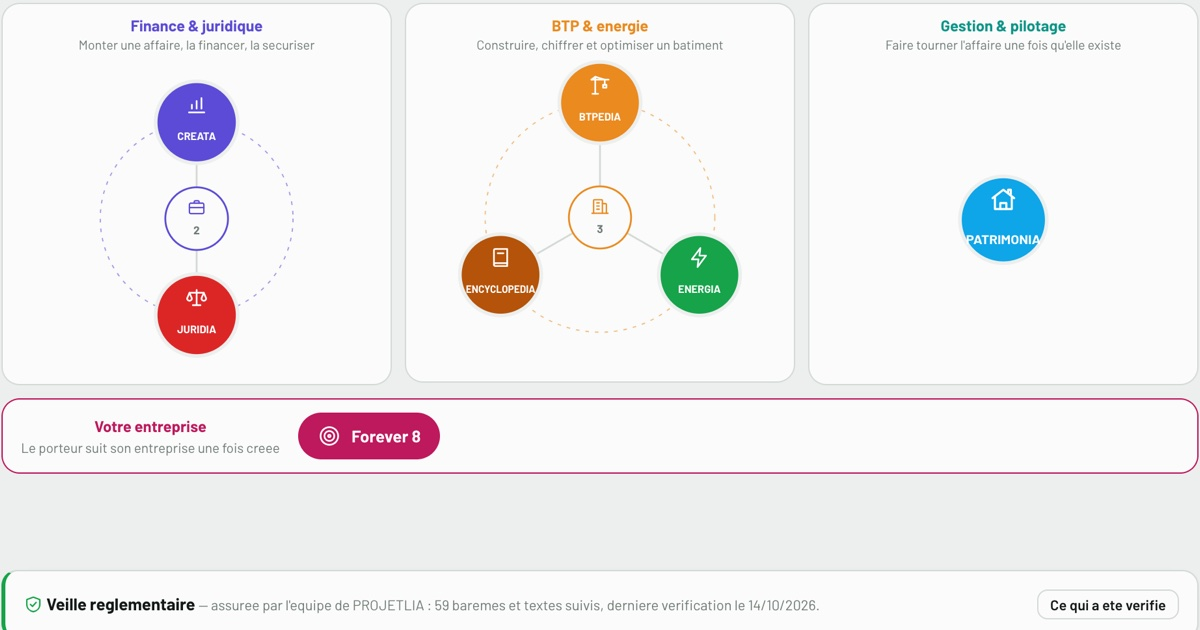
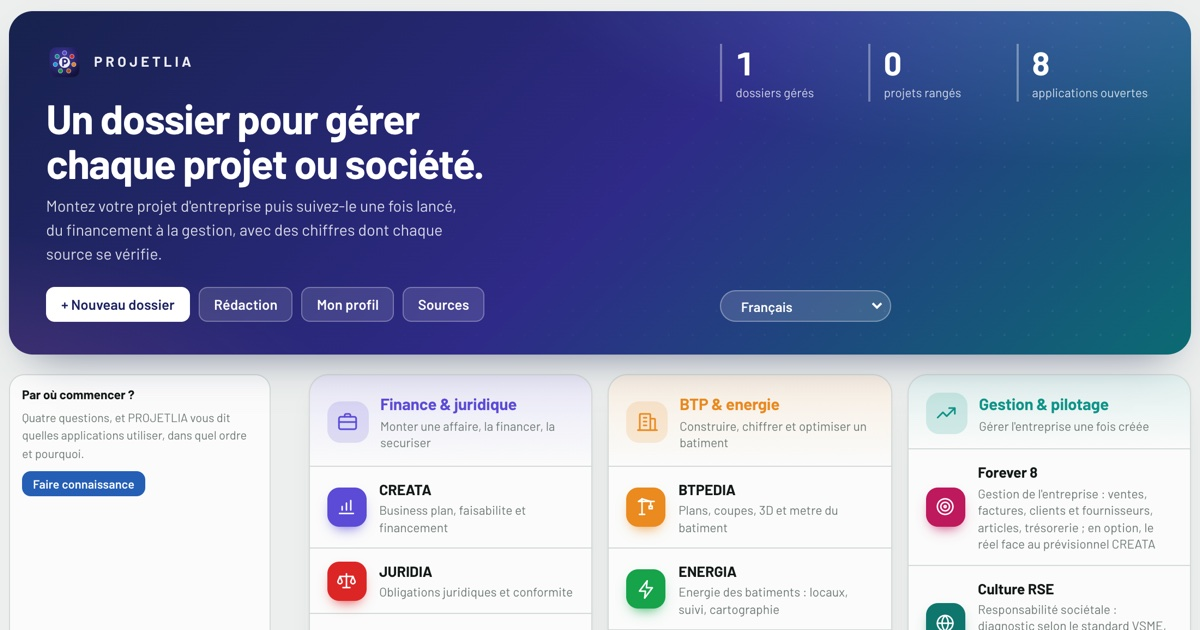
PROJETLIA aide les entreprises à monter leur projet puis à le suivre ; nouvelle image d'accueil et de partage
- un dossier pour gérer chaque projet ou société, plus de « dossier client » ni d'« accompagner » pour PROJETLIA
- Pro : gérer sans limite plusieurs projets ou sociétés
- img/atelier-accueil.jpg et img/partage.jpg refaites sur l'accueil actuel (installation vierge)

diff --git a/projetlia.html b/projetlia.html
@@ -4,12 +4,12 @@
 <meta charset="utf-8">
 <meta name="viewport" content="width=device-width, initial-scale=1, viewport-fit=cover">
 <title>PROJETLIA : business plan, droit, bâtiment, immobilier — BudappsAI</title>
-<meta name="description" content="PROJETLIA suit un projet d'entreprise du premier rendez-vous au pilotage. CREATA, JURIDIA, PATRIMONIA, BTPEDIA, l'Encyclopédie, ENERGIA, Forever 8, Culture RSE et Formation partagent un même dossier.">
+<meta name="description" content="PROJETLIA aide les entreprises à monter leur projet puis à le suivre. CREATA, JURIDIA, PATRIMONIA, BTPEDIA, l'Encyclopédie, ENERGIA, Forever 8, Culture RSE et Formation partagent un même dossier.">
 <meta name="theme-color" content="#09090b">
 <link rel="canonical" href="https://www.budappsai.com/projetlia.html">
 <link rel="icon" href="favicon.svg" type="image/svg+xml">
 <meta property="og:title" content="PROJETLIA : business plan, droit, bâtiment, immobilier — BudappsAI">
-<meta property="og:description" content="PROJETLIA suit un projet d'entreprise du premier rendez-vous au pilotage. CREATA, JURIDIA, PATRIMONIA, BTPEDIA, l'Encyclopédie, ENERGIA, Forever 8, Culture RSE et Formation partagent un même dossier.">
+<meta property="og:description" content="PROJETLIA aide les entreprises à monter leur projet puis à le suivre. CREATA, JURIDIA, PATRIMONIA, BTPEDIA, l'Encyclopédie, ENERGIA, Forever 8, Culture RSE et Formation partagent un même dossier.">
 <meta property="og:image" content="https://www.budappsai.com/img/partage.jpg">
 <link rel="stylesheet" href="budappsai.css">
 </head>
@@ -32,7 +32,7 @@
     <img class="icone-appli revele" src="img/projetlia-icone.svg" alt="Icône de PROJETLIA" width="96" height="96" style="display:block;margin:0 auto 10px">
     <div class="etiquette revele">PROJETLIA</div>
     <h1 data-mots>Un parcours, pas une <span class="degrade">suite d'outils</span></h1>
-    <p class="chapeau revele d3">PROJETLIA suit un projet d'entreprise du premier rendez-vous au pilotage. Un dossier correspond à un client : chaque application le complète et rien n'est saisi deux fois.</p>
+    <p class="chapeau revele d3">PROJETLIA aide les entreprises à monter leur projet puis à le suivre une fois lancé. Un dossier pour gérer chaque projet ou société : chaque application le complète et rien n'est saisi deux fois.</p>
   </div>
 
   <section id="video" aria-label="La vidéo de présentation de PROJETLIA">
@@ -156,11 +156,11 @@
         <div class="carte carte-app revele d2" data-incline style="--c:var(--formation)"><span class="pastille-app" style="background:var(--formation)"><svg viewBox="0 0 24 24" fill="none" stroke="currentColor" stroke-width="2"><path d="M3 6c3-2 6-2 9 1 3-3 6-3 9-1v13c-3-2-6-2-9 1-3-3-6-3-9-1zM12 7v13"/></svg></span><h3>Formation</h3><p>Douze fiches sourcées sur les thèmes de PROJETLIA, une question chacune et l'attestation de suivi. Formule Pro.</p><i class="ligne"></i></div>
       </div>
 
-      <div class="carte carte-app revele" id="redaction" style="margin-top:16px;min-height:0;--c:rgba(217,103,63,.6)"><span class="pastille-app" style="background:linear-gradient(135deg,var(--violet),var(--corail))"><svg viewBox="0 0 24 24" fill="none" stroke="currentColor" stroke-width="2"><path d="M7 3h7l4 4v14H7z"/><path d="M14 3v4h4M10 12h5M10 16h5"/></svg></span><h3>L'onglet Rédaction</h3><p>Compte rendu, lettre de mission, courrier, note de synthèse : chaque dossier client dispose de ses documents Word et Excel, préremplis à partir du dossier. Ils s'ouvrent dans Word ou dans ONLYOFFICE Desktop, logiciel gratuit à installer séparément. PROJETLIA intègre aussi un mémo et une feuille de calcul, avec des formules simples comme =SOMME(A1:A5). Tout reste sur votre ordinateur, dans la sauvegarde quotidienne et dans l'export du dossier.</p><p style="margin-top:12px;font-size:13.5px;color:var(--texte3)">ONLYOFFICE est une marque d'Ascensio System SIA. PROJETLIA n'est pas affilié à ONLYOFFICE.</p><i class="ligne"></i></div>
+      <div class="carte carte-app revele" id="redaction" style="margin-top:16px;min-height:0;--c:rgba(217,103,63,.6)"><span class="pastille-app" style="background:linear-gradient(135deg,var(--violet),var(--corail))"><svg viewBox="0 0 24 24" fill="none" stroke="currentColor" stroke-width="2"><path d="M7 3h7l4 4v14H7z"/><path d="M14 3v4h4M10 12h5M10 16h5"/></svg></span><h3>L'onglet Rédaction</h3><p>Compte rendu, lettre de mission, courrier, note de synthèse : chaque dossier dispose de ses documents Word et Excel, préremplis à partir du dossier. Ils s'ouvrent dans Word ou dans ONLYOFFICE Desktop, logiciel gratuit à installer séparément. PROJETLIA intègre aussi un mémo et une feuille de calcul, avec des formules simples comme =SOMME(A1:A5). Tout reste sur votre ordinateur, dans la sauvegarde quotidienne et dans l'export du dossier.</p><p style="margin-top:12px;font-size:13.5px;color:var(--texte3)">ONLYOFFICE est une marque d'Ascensio System SIA. PROJETLIA n'est pas affilié à ONLYOFFICE.</p><i class="ligne"></i></div>
 
       <div class="parcours" id="parcours">
         <div class="trait" id="trait"></div>
-        <div class="etape"><div class="num">1</div><div><div class="app">La personne</div><h3>Le diagnostic d'entrée</h3><p>Parcours, compétences, freins et ressources : l'accompagnement commence par la personne.</p></div></div>
+        <div class="etape"><div class="num">1</div><div><div class="app">La personne</div><h3>Le diagnostic d'entrée</h3><p>Parcours, compétences, freins et ressources : tout commence par la personne qui dirige l'entreprise.</p></div></div>
         <div class="etape"><div class="num">2</div><div><div class="app">CREATA</div><h3>Faisabilité et financement</h3><p>Chaque chiffre montre sa source et sa suite, jusqu'au score.</p></div></div>
         <div class="etape"><div class="num">3</div><div><div class="app">JURIDIA</div><h3>Ce qui s'impose</h3><p>Les obligations, dans l'ordre où les traiter.</p></div></div>
         <div class="etape"><div class="num">4</div><div><div class="app">BTPEDIA · ENERGIA</div><h3>Les locaux</h3><p>Le bâti puis l'énergie, lorsque le projet comporte des locaux. En bonus, PATRIMONIA chiffre l'achat d'un local ou un investissement locatif.</p></div></div>
@@ -172,7 +172,7 @@
         <div><b data-compte="9">0</b><span>applications reliées par un même dossier</span></div>
         <div><b data-compte="7">0</b><span>langues du français au chinois</span></div>
         <div><b data-compte="72" data-suffixe=" h">0</b><span>de fonctionnement sans connexion</span></div>
-        <div><b data-compte="0">0</b><span>dossier client hébergé chez nous</span></div>
+        <div><b data-compte="0">0</b><span>dossier hébergé chez nous</span></div>
       </div>
     </div>
   </section>
@@ -206,7 +206,7 @@
             <span class="statut dispo">Disponible</span>
             <span class="pastille-app" style="background:linear-gradient(135deg,var(--violet),var(--corail));--c:rgba(217,103,63,.6)"><svg viewBox="0 0 24 24" fill="none" stroke="currentColor" stroke-width="2"><path d="M4 20h16M6 20V10l6-5 6 5v10M10 20v-5h4v5"/></svg></span>
             <h3>PROJETLIA</h3>
-            <p>Accompagner un entrepreneur, du diagnostic au pilotage : neuf applications reliées par un même dossier.</p>
+            <p>Monter un projet d'entreprise puis le suivre : neuf applications reliées par un même dossier.</p>
           </div>
           <div class="apercu"><img src="img/atelier-accueil.jpg" alt="" loading="lazy"></div>
         </a>

diff --git a/index.html b/index.html
@@ -12,7 +12,7 @@
 <meta property="og:locale" content="fr_FR">
 <meta property="og:site_name" content="BudappsAI">
 <meta property="og:title" content="BudappsAI — logiciels et services pour les entreprises">
-<meta property="og:description" content="BudappsAI conçoit des logiciels métier et accompagne leurs utilisateurs : formation, conseil en BTP et en finance, veille réglementaire. PROJETLIA accompagne un projet d'entreprise, du premier rendez-vous au pilotage.">
+<meta property="og:description" content="BudappsAI conçoit des logiciels métier et accompagne leurs utilisateurs : formation, conseil en BTP et en finance, veille réglementaire. PROJETLIA aide les entreprises à monter leur projet puis à le suivre.">
 <meta property="og:image" content="https://www.budappsai.com/img/partage.jpg">
 <meta name="twitter:card" content="summary_large_image">
 <script type="application/ld+json">
@@ -20,7 +20,7 @@
  {"@type":"Organization","name":"BudappsAI","url":"https://www.budappsai.com/","logo":"https://www.budappsai.com/favicon.svg","email":"contact@budappsai.com",
   "address":{"@type":"PostalAddress","streetAddress":"15 avenue Jules Ayanne","postalCode":"97351","addressLocality":"Matoury","addressRegion":"Guyane","addressCountry":"FR"}},
  {"@type":"SoftwareApplication","name":"PROJETLIA","applicationCategory":"BusinessApplication","operatingSystem":"macOS, Windows",
-  "description":"Accompagner un projet d'entreprise : business plan, financement, obligations juridiques, immobilier, bâtiment, énergie et pilotage, dans un même dossier.",
+  "description":"Monter un projet d'entreprise puis le suivre : business plan, financement, obligations juridiques, immobilier, bâtiment, énergie et pilotage, dans un même dossier.",
   "offers":[{"@type":"Offer","name":"Standard","price":"50","priceCurrency":"EUR","url":"https://www.budappsai.com/tarifs.html"},{"@type":"Offer","name":"Pro","price":"250","priceCurrency":"EUR"}],
   "publisher":{"@type":"Organization","name":"BudappsAI"}}
 ]}
@@ -67,7 +67,7 @@
       <h2 data-mots>Ce que nous proposons</h2>
       <div class="portes p3">
         <a class="carte porte revele" href="projetlia.html">
-          <h3>PROJETLIA</h3><p>Neuf applications autour d'un même dossier client : business plan, droit, immobilier, bâtiment, énergie, gestion, RSE et formation. Avec sa veille réglementaire. Dès 50 € par mois.</p>
+          <h3>PROJETLIA</h3><p>Neuf applications autour d'un même dossier : business plan, droit, immobilier, bâtiment, énergie, gestion, RSE et formation. Avec sa veille réglementaire. Dès 50 € par mois.</p>
           <span class="aller">Découvrir <svg viewBox="0 0 24 24" fill="none" stroke="currentColor" stroke-width="2"><path d="M5 12h14m-6-6 6 6-6 6"/></svg></span></a>
         <a class="carte porte revele d1" href="tarifs.html">
           <h3>Forever 8</h3><p>Pour l'entrepreneur qui suit son entreprise au quotidien : affaires, clients réguliers, trésorerie. 50 € par mois avec la formule Standard.</p>

diff --git a/demo.html b/demo.html
@@ -219,7 +219,7 @@
         [50, 26, 'BTP et énergie', "BTPEDIA dessine le bâtiment et en établit le métré ; ENERGIA mesure la consommation ; l'encyclopédie documente."],
         [71.5, 26, 'Gestion et pilotage', "Forever 8 pour suivre l'entreprise au quotidien."],
         [40, 55.2, 'La veille réglementaire', "Les barèmes et les textes suivis, avec la date de leur dernière vérification."],
-        [30, 68.5, 'Les dossiers', "Un dossier par client, qui regroupe tous ses projets. Recherche et filtre par année."],
+        [30, 68.5, 'Les dossiers', "Un dossier pour gérer chaque projet ou société. Recherche et filtre par année."],
         [56.5, 85.5, 'Synthèse et rédaction', "Pour chaque dossier : l'avancement dans chaque application et les documents à rédiger. Une sauvegarde automatique est faite chaque jour."],
       ] },
     { img: 'creata-accueil', app: 'CREATA', c: '#5b4bd6', titre: 'Le projet prend forme',

diff --git a/tarifs.html b/tarifs.html
@@ -36,7 +36,7 @@
   <div class="enveloppe page-tete">
     <div class="etiquette revele">Tarifs</div>
     <h1 data-mots>Nos formules, <span class="degrade">avec ou sans engagement</span></h1>
-    <p class="chapeau revele d3">Standard pour mener votre propre projet. Pro pour accompagner ceux de vos clients. Forever 8 s'ajoute à Standard pour suivre votre entreprise. Prix par poste et par mois.</p>
+    <p class="chapeau revele d3">Standard pour monter votre projet. Pro pour gérer sans limite plusieurs projets ou sociétés. Forever 8 s'ajoute à Standard pour suivre votre entreprise. Prix par poste et par mois.</p>
   </div>
   <section style="padding-top:10px">
     <div class="enveloppe">
